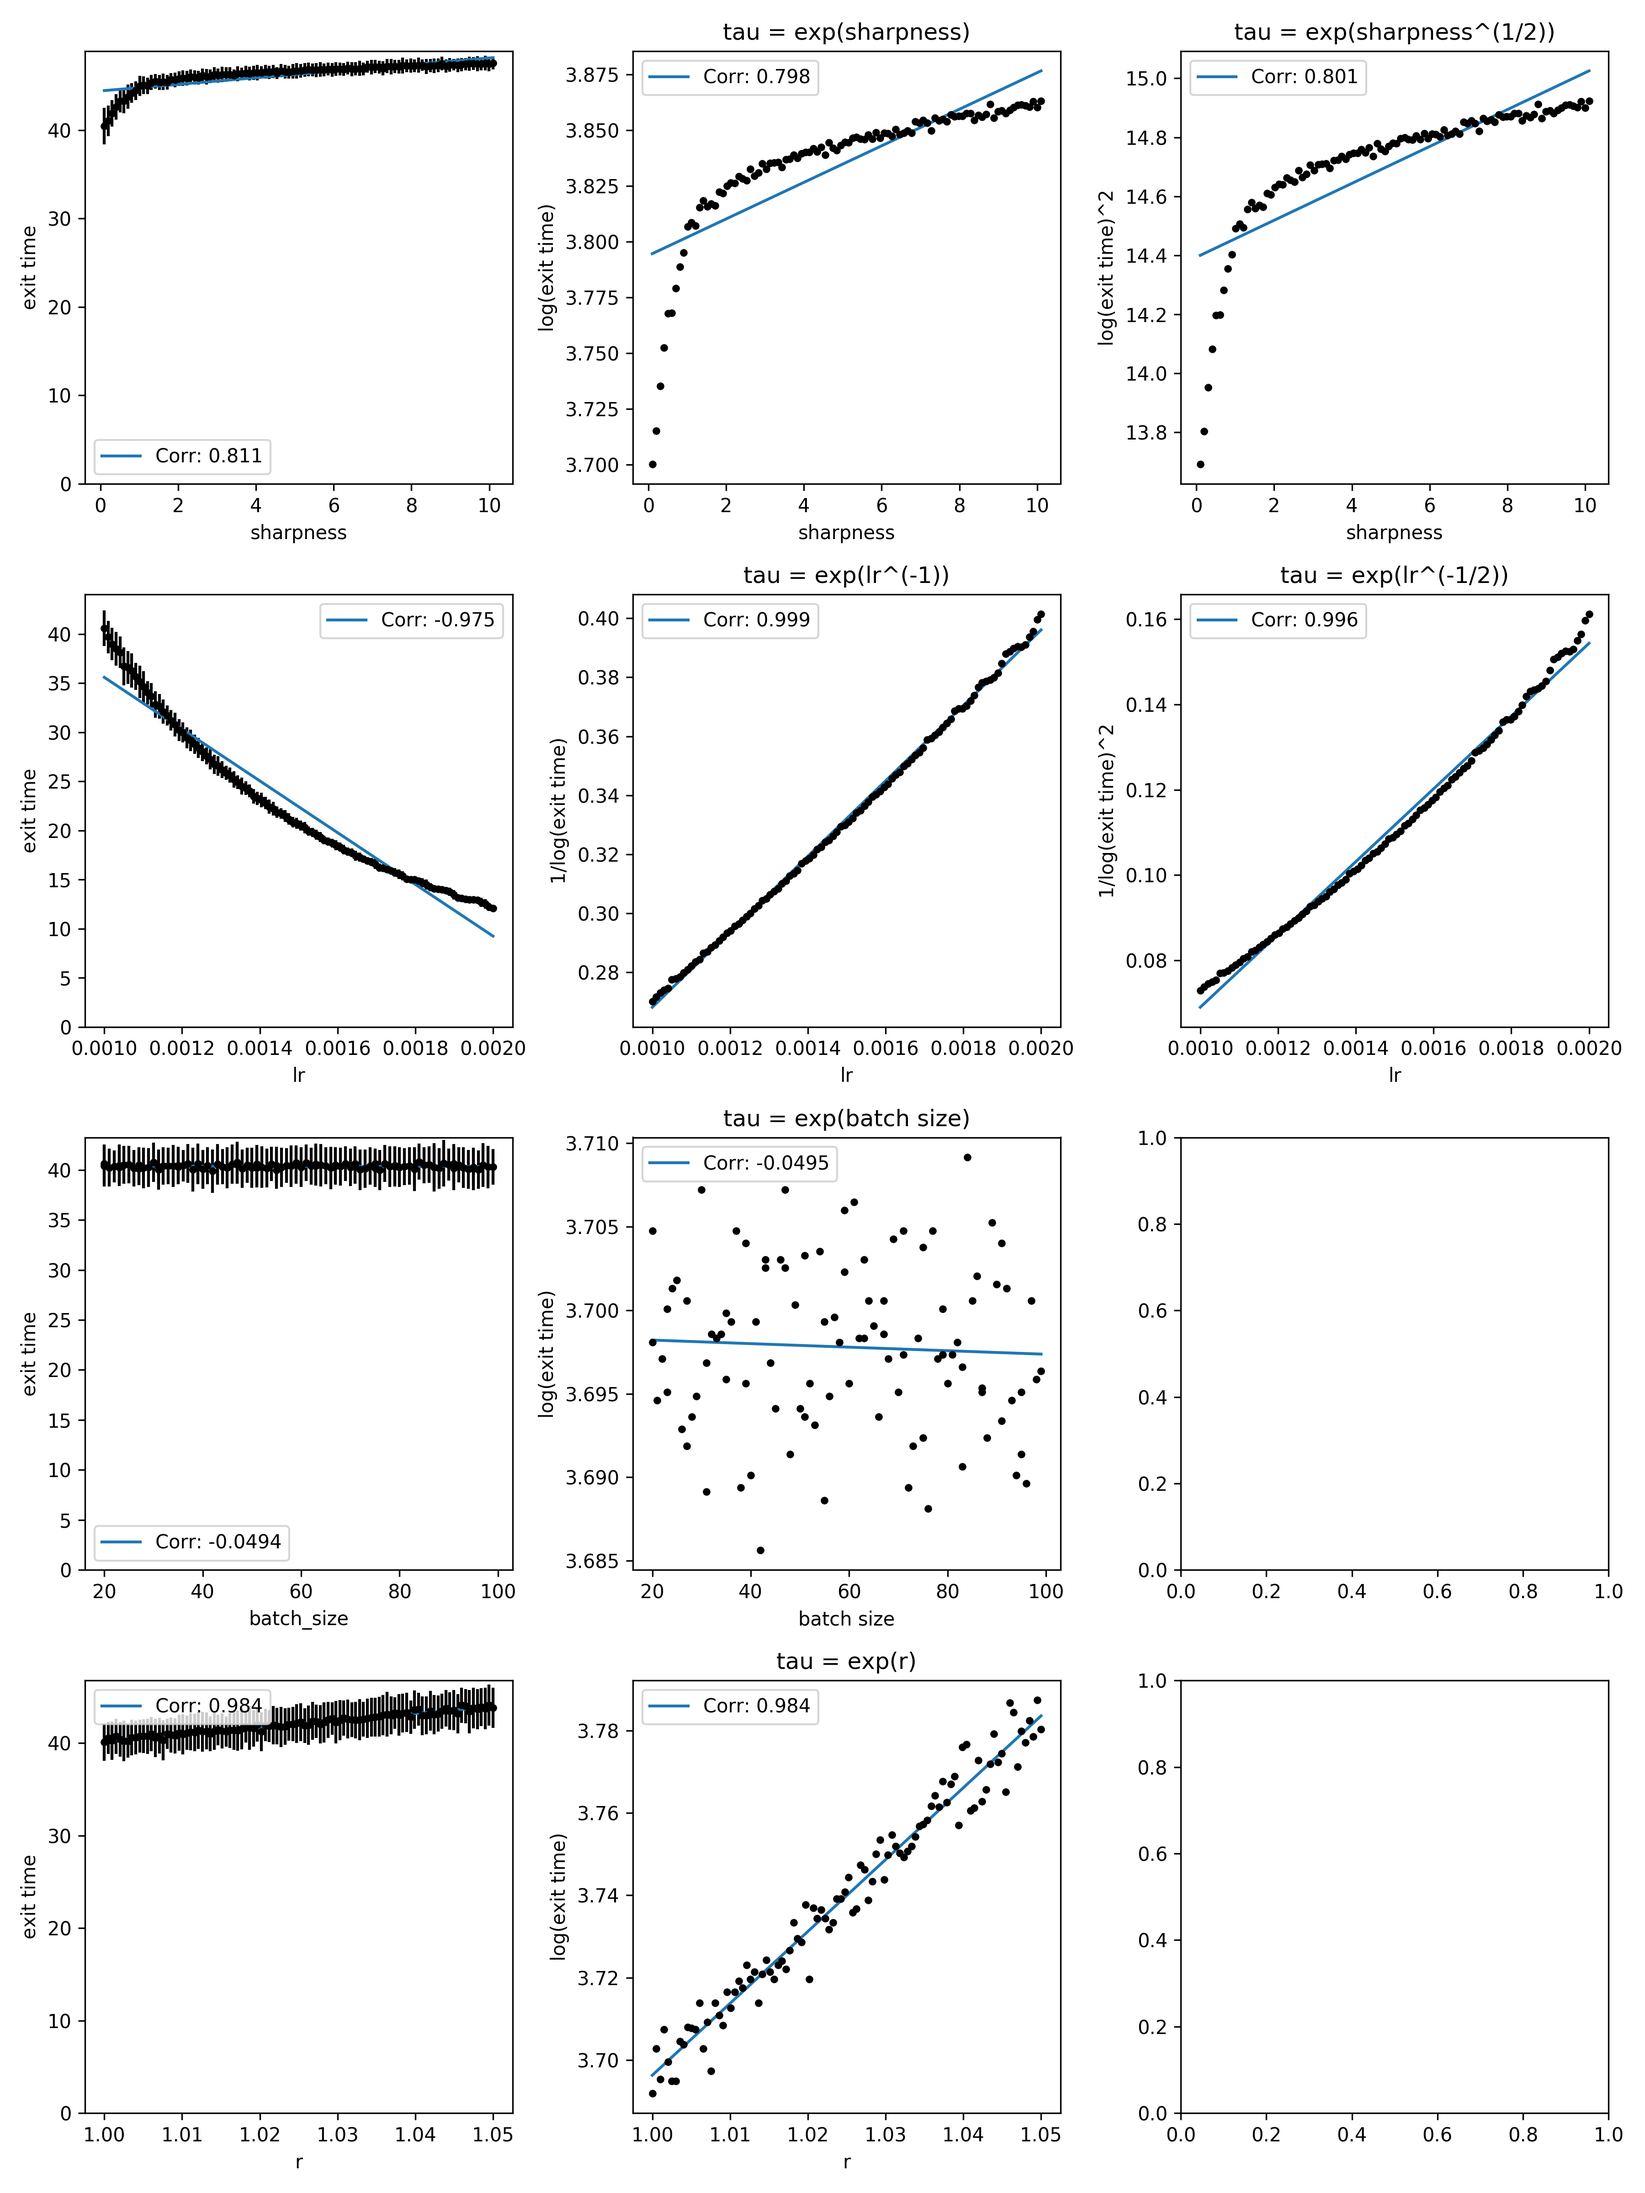
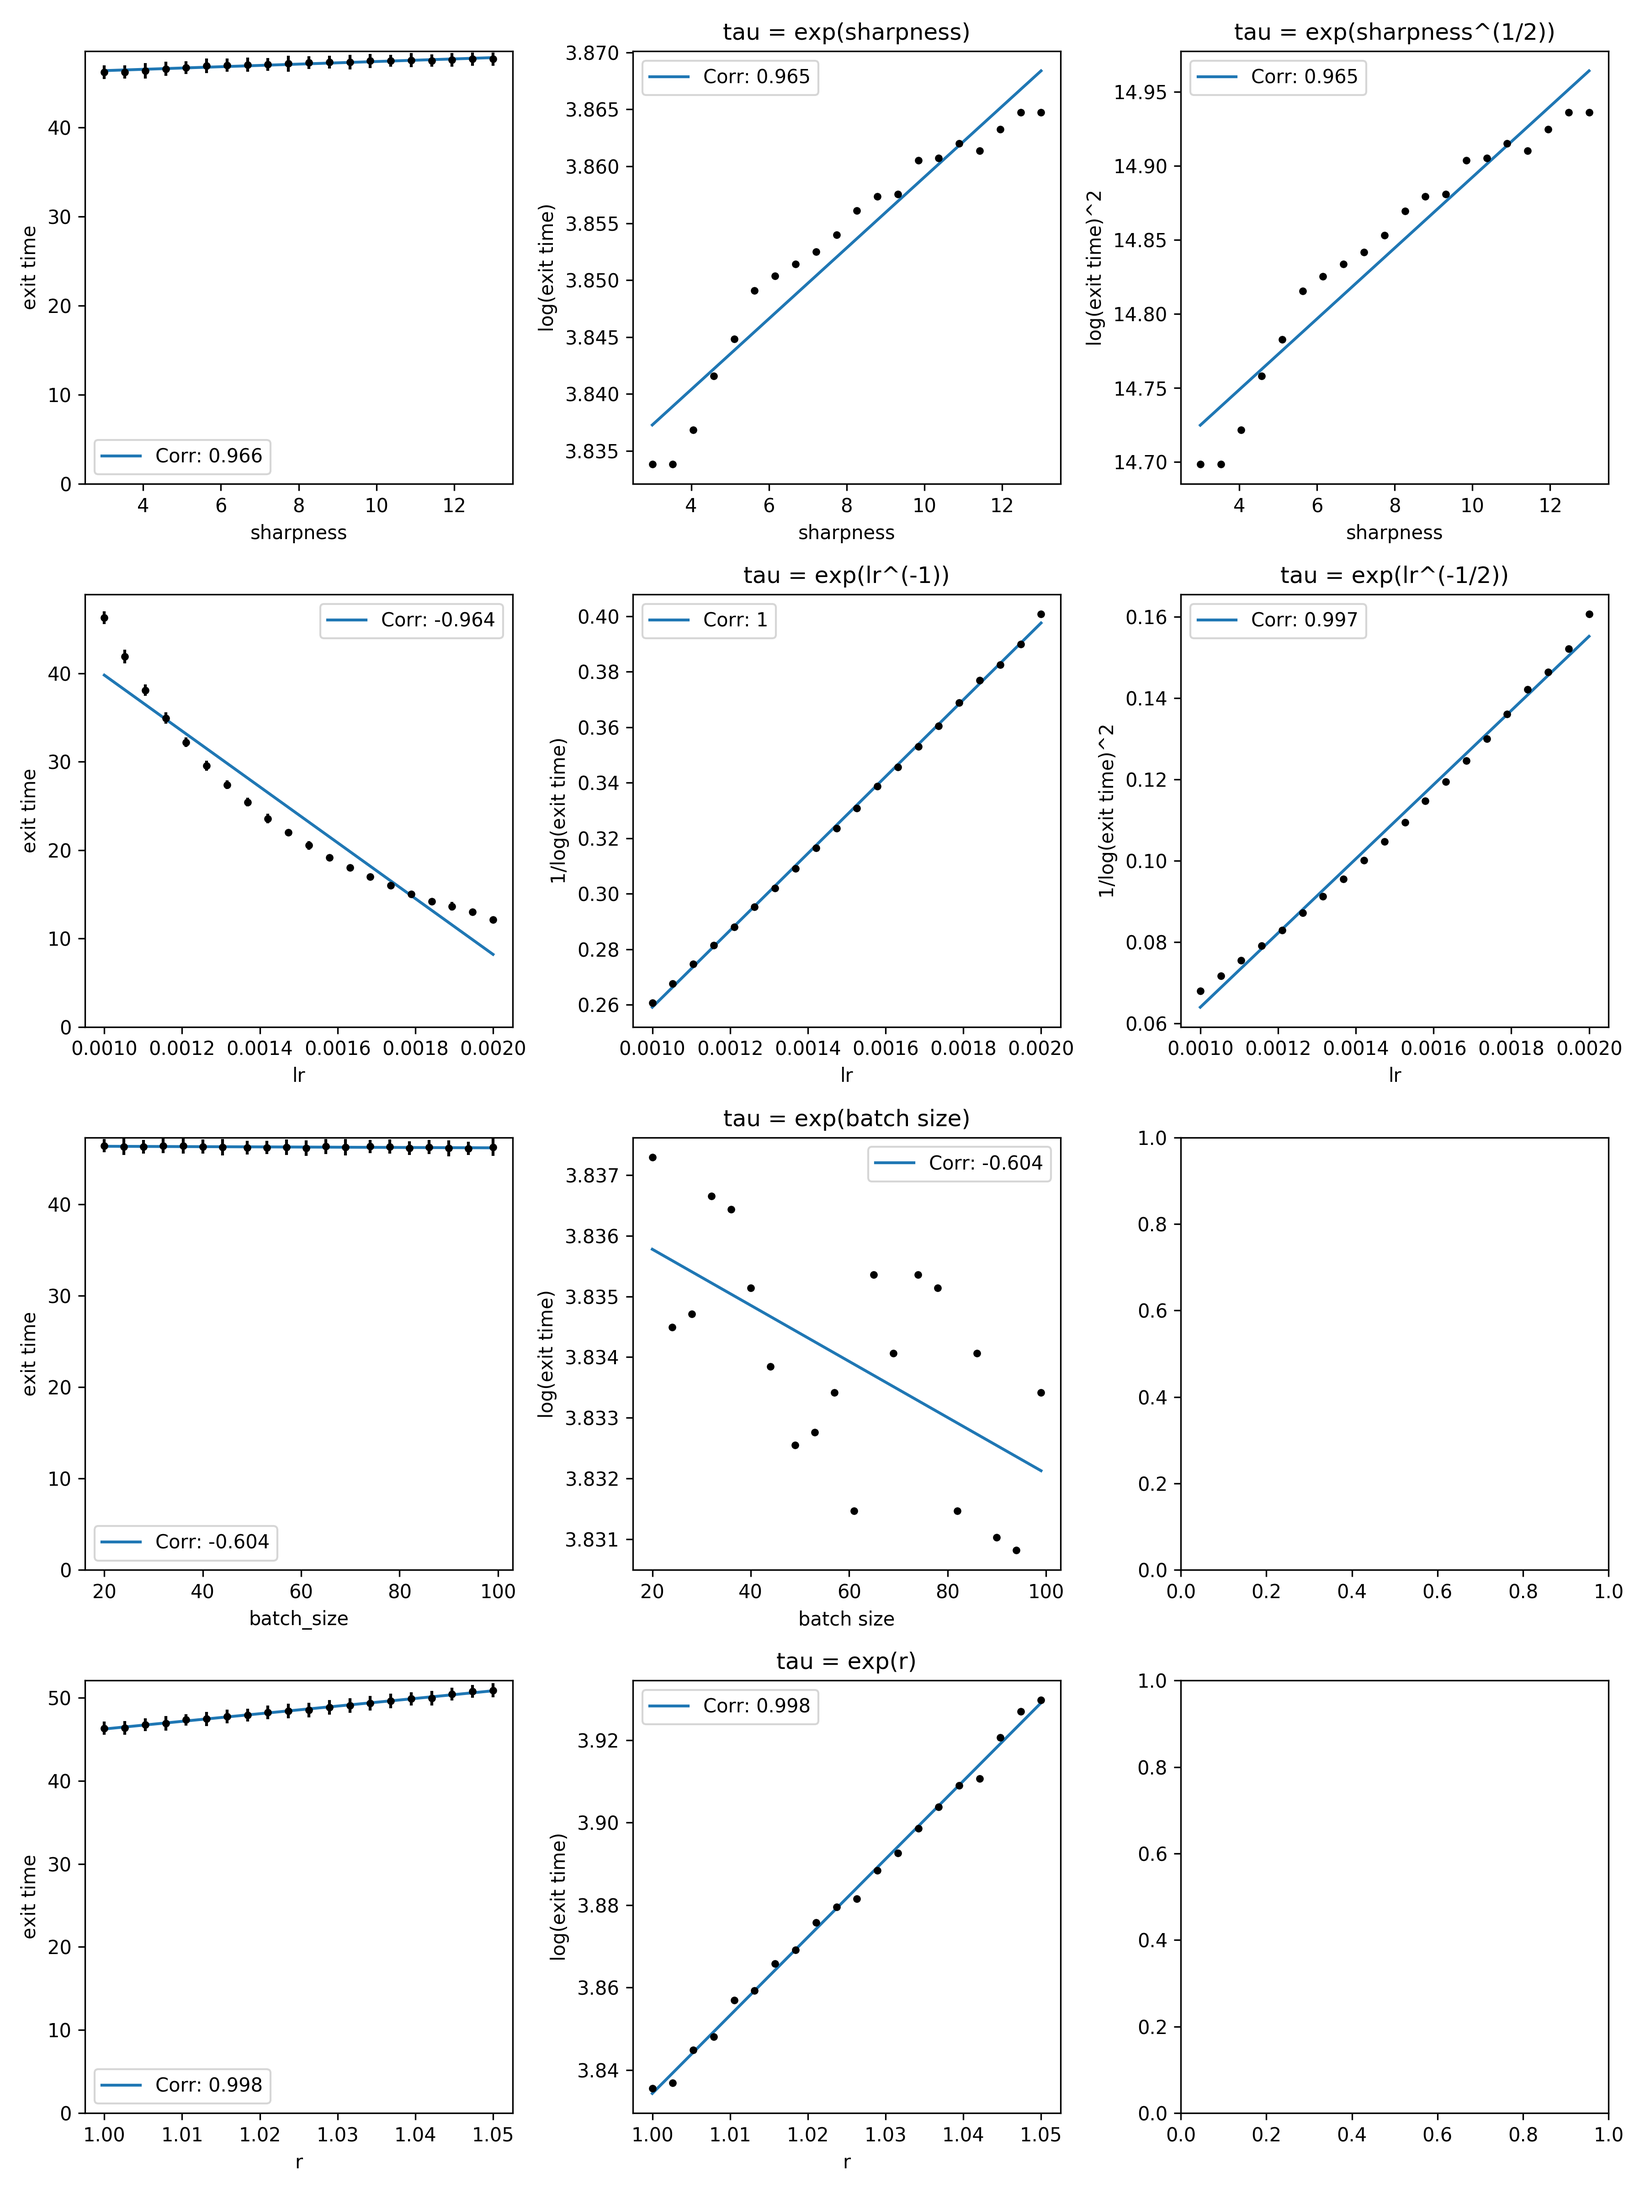
update

diff --git a/exit_time.py b/exit_time.py
@@ -320,7 +320,7 @@ def main():
     config['core'] = 0 
     config['seed'] = -1
     config['num_dim'] = 100
-    config['sharpness_min'] = 0.1
+    config['sharpness_min'] = 3 
     config['sharpness_interval'] = 10 
     config['r_min'] = 1 
     config['r_interval'] = 0.05
@@ -329,7 +329,7 @@ def main():
     config['batch_size_min'] = 20 
     config['batch_size_interval'] = 80 
     config['exit_trial_num'] = 100 
-    config['interval_sample'] = 100
+    config['interval_sample'] = 20
     config['optim'] = "SGLD"
     #
     config['data'] = 'AVILA2'
